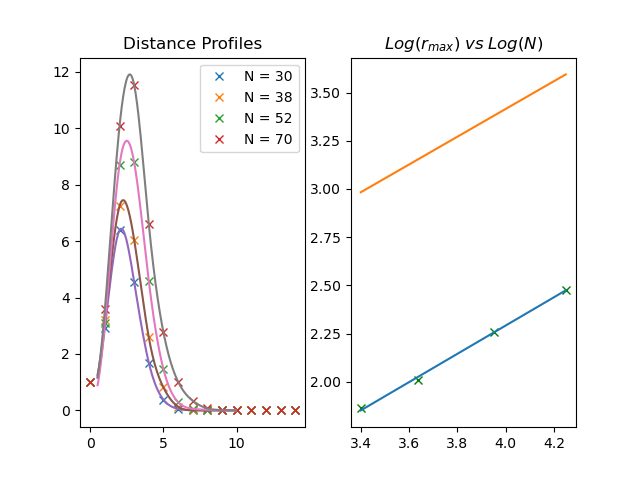
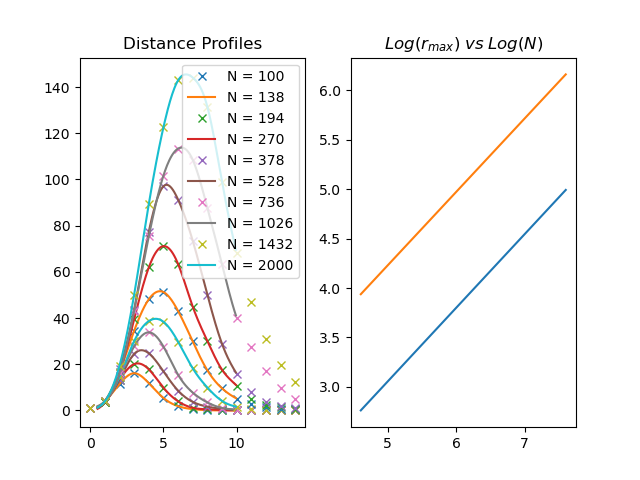
fixed some bugs fro spinor parall transport. sign flags not yet antisymmetrised

diff --git a/manifold_sampler/main_hpc.py b/manifold_sampler/main_hpc.py
@@ -3,7 +3,7 @@ from Analysis_utils import *
 from scipy.interpolate import CubicSpline
 
 # params for the lattice-matter system and sampling
-sizes = [(int(i) // 2) * 2 for i in np.geomspace(100, 500, 8)]
+sizes = [(int(i) // 2) * 2 for i in np.geomspace(30, 100, 8)]
 beta = 0.63
 matter = 'ising'
 strategy = ['gravity', matter]
@@ -19,67 +19,69 @@ if array_id is not None:
 def profile_maker(size):
     return make_profile(size, beta, strategy, eq_sweeps, meas_sweeps, n_measurements)
 
-if array_id is not None and array_id <= 1:
-    prof = make_profiles(sizes, beta, strategy, eq_sweeps, meas_sweeps, n_measurements)
-else:
-    prof = make_profiles_mp(sizes, profile_maker)
 
-# create plots
-fig, ax = plt.subplots(1, 2)
+if __name__ == '__main__':
 
-# fit a cubic spline through the distance profiles
-fit_prof = []
-prof_0 = prof[..., 0]  # neglect errors
-rs = np.arange(0.5, 10, 0.05)  # range for spline fit
+    # the process of creating and updating different lattices is parallelised.
+    pool = mp.Pool(mp.cpu_count())
+    with timebudget("Time to make profiles:"):
+        prof = np.array(pool.map(profile_maker, sizes))
 
-for profile in prof_0:
-    dist_range = np.arange(len(profile))
-    cs = CubicSpline(dist_range, profile)
-    fit_prof.append(cs(rs))
+    # create plots
+    fig, ax = plt.subplots(1, 2)
 
-    # plot distance profiles
-    ax[0].plot(dist_range, profile, 'x')
-    ax[0].plot(rs, cs(rs))
+    # fit a cubic spline through the distance profiles
+    fit_prof = []
+    prof_0 = prof[..., 0]  # neglect errors
+    rs = np.arange(0.5, 10, 0.05)  # range for spline fit
 
-np.savez('data/profiles_spinor_1', full_prof=prof, fit_prof=np.array(fit_prof), prof_0=prof_0, sizes=sizes, beta=beta)
+    for profile in prof_0:
+        dist_range = np.arange(len(profile))
+        cs = CubicSpline(dist_range, profile)
+        fit_prof.append(cs(rs))
 
-# make fit of finite size scaling in log-log space
-y = np.log(np.max(fit_prof, axis=1))
-x = np.log(sizes)
-fit = curve_fit(lin_fit, x, y, p0=[0.75, 0])
-(d, a), err = fit
-d_H = 1 / (1 - d)
-d_err = np.sqrt(err[0, 0])
-d_H_err = d_H ** 2 * d_err
-a_err = np.sqrt(err[1, 1])
+        # plot distance profiles
+        ax[0].plot(dist_range, profile, 'x')
+        ax[0].plot(rs, cs(rs))
 
-# make fit without spline
-d_H_ws, d_H_err_ws, a_ws, a_err_ws = finite_size_scaling(prof, sizes)
+    np.savez('data/profiles_spinor_1', full_prof=prof, fit_prof=np.array(fit_prof), prof_0=prof_0, sizes=sizes,
+             beta=beta)
 
+    # make fit of finite size scaling in log-log space
+    y = np.log(np.max(fit_prof, axis=1))
+    x = np.log(sizes)
+    fit = curve_fit(lin_fit, x, y, p0=[0.75, 0])
+    (d, a), err = fit
+    d_H = 1 / (1 - d)
+    d_err = np.sqrt(err[0, 0])
+    d_H_err = d_H ** 2 * d_err
+    a_err = np.sqrt(err[1, 1])
 
-##### plot settings #####
-ax[1].plot(x, lin_fit(x, d, a), 'g')
-ax[1].plot(x, lin_fit(x, 1 - 1 / d_H_ws, a_ws))
-ax[1].plot(x, y, 'gx')
+    # make fit without spline
+    d_H_ws, d_H_err_ws, a_ws, a_err_ws = finite_size_scaling(prof, sizes)
 
-ax[0].set_title('Distance Profiles'), ax[1].set_title('$Log(r_{max})\; vs\; Log(N)$')
-ax[0].legend(["N = " + str(N) for N in sizes]), ax[1].legend(["Spline", "No spline"])
-fig.suptitle(f'{matter = }, {beta = }')
+    ##### plot settings #####
+    ax[1].plot(x, lin_fit(x, d, a), 'g')
+    ax[1].plot(x, lin_fit(x, 1 - 1 / d_H_ws, a_ws))
+    ax[1].plot(x, y, 'gx')
 
-ID = "" if array_id is None else str(array_id)
-fig.set_size_inches(8, 5)
-plt.savefig("data/pics/dist_" + matter + "_" + ID + ".png")
-plt.show()
+    ax[0].set_title('Distance Profiles'), ax[1].set_title('$Log(r_{max})\; vs\; Log(N)$')
+    ax[0].legend(["N = " + str(N) for N in sizes]), ax[1].legend(["Spline", "No spline"])
+    fig.suptitle(f'{matter = }, {beta = }')
 
+    ID = "" if array_id is None else str(array_id)
+    fig.set_size_inches(8, 5)
+    plt.savefig("data/pics/dist_" + matter + "_" + ID + ".png")
+    plt.show()
 
-##### print results and info #####
-print('Number of cores: ' + str(mp.cpu_count()))
-print(f'{array_id = }')
+    ##### print results and info #####
+    print('Number of cores: ' + str(mp.cpu_count()))
+    print(f'{array_id = }')
 
-print("\nwith spline fit:")
-print(f'{d_H = }' + '+/-' + f'{d_H_err = }')
-print(f'{a = }' + '+/-' + f'{a_err = }')
+    print("\nwith spline fit:")
+    print(f'{d_H = }' + '+/-' + f'{d_H_err = }')
+    print(f'{a = }' + '+/-' + f'{a_err = }')
 
-print("\nwithout spline fit:")
-print(f'{d_H_ws = }' + '+/-' + f'{d_H_err_ws = }')
-print(f'{a_ws = }' + '+/-' + f'{a_err_ws = }')
+    print("\nwithout spline fit:")
+    print(f'{d_H_ws = }' + '+/-' + f'{d_H_err_ws = }')
+    print(f'{a_ws = }' + '+/-' + f'{a_err_ws = }')

diff --git a/manifold_sampler/Triangulation.py b/manifold_sampler/Triangulation.py
@@ -6,14 +6,14 @@ rng = np.random.default_rng()
 
 # counter-clockwise circling of vertices to compute plaquettes and angle deficiency
 def circle_vertex(adj, sign, signc, i):
-    j = prev_(adj[i])
     alpha = theta[i % 3] - theta[adj[i] % 3] + np.pi
-    U = signc[i % 3] * sign[i] * paral_trans(alpha / 2)
+    U = signc[i // 3] * sign[i] * paral_trans(alpha / 2)
     def_triangles = 6 - 1
 
+    j = prev_(adj[i])
     while j != i:
         alpha = theta[j % 3] - theta[adj[j] % 3] + np.pi
-        U_1 = signc[j % 3] * sign[j] * paral_trans(alpha / 2)
+        U_1 = signc[j // 3] * sign[j] * paral_trans(alpha / 2)
         U = np.matmul(U, U_1)
         def_triangles -= 1
         j = prev_(adj[j])
@@ -131,6 +131,9 @@ class Manifold:
                     trace_th = np.cos(def_triangles * np.pi / 6)
                     sign_flip.append(np.sign(trace / trace_th))
 
+                sign_ = np.copy(sign_new)
+                signc_ = np.copy(signc_new)
+                traces = {}
                 ###### THIS IS THE IMPORTANT PART ######
                 # ss[x] is 1 if the plaquette corresp to edge x has correct sign, while it is -1 otherwise
                 ss = {}
@@ -140,22 +143,23 @@ class Manifold:
                     trace_th = np.cos(def_triangles * np.pi / 6)
 
                     if np.isclose(trace, 0):  ### problems when trace = 0
-                        s = np.sign(U[0, 1] / np.sin(def_triangles * np.pi / 6))
+                        s = np.sign(U[0, 1] / np.sin(def_triangles * np.pi / 6)) ### maybe should include minus sign
                     else:
                         s = np.sign(trace / trace_th)
                     ss[edge] = s
+                    traces[edge] = trace
 
                 # we enforce consistency relations ### check!
                 if j != n:
                     sign_new[k] *= ss[k]
                     sign_new[j] *= ss[i] * ss[j]
                     sign_new[i] *= ss[j] * ss[k] * ss[l]
-                    signc_new[i % 3] *= ss[i] * ss[j] * ss[k] * ss[l]
+                    signc_new[c1] *= ss[i] * ss[j] * ss[k] * ss[l]
 
-                    ### modify for case j == n
                     sign_new[m] = sign_new[k]
                     sign_new[l] = sign_new[j]
                     sign_new[n] = sign_new[i]
+
                 # the case j == n requires a distinct approach
                 else:
                     print("j == n")
@@ -187,18 +191,25 @@ class Manifold:
                         print(j==n)
                         t = 1
                 ss1 = {}
+                report = False
+                any_trace_zero = False
                 for edge in (i, j, k, l):
                     U, def_triangles = circle_vertex(adj_new, sign_new, signc_new, edge)
                     trace = np.trace(U) / 2
                     trace_th = np.cos(def_triangles * np.pi / 6)
 
                     if np.isclose(trace, 0):  ### problems when trace = 0
-                        s = 0.000001
+                        s = 0
+                        any_trace_zero = True
                     else:
                         s = np.sign(trace / trace_th)
                     ss1[edge] = s
                     if s != 1:
-                        print("s != 1")
+                        report = True
+                if report:
+                    print(ss1)
+                    print(f'{any_trace_zero = }')
+
 
                 # action variation
                 signs = (self.sign, self.signc)

diff --git a/manifold_sampler/tests/spinor_test.py b/manifold_sampler/tests/spinor_test.py
@@ -1,7 +1,7 @@
 import sys
 import unittest
 
-import scipy
+import scipy.linalg
 
 sys.path.append("../")
 from manifold_sampler.Triangulation import *
@@ -41,39 +41,40 @@ class TestPsi(unittest.TestCase):
             self.assertAlmostEqual(np.imag(product), 0)
 
     def test_plaquette(self):
-        N = 8
+        N = 20
         m = Manifold(N)
         strategy = ['gravity', 'spinor_free']
         # check if the fan triangulation has a consistent sign configuration
         for i in range(len(m.adj)):
             U, def_triangles = circle_vertex(m.adj, m.sign, m.signc, i)
             trace_plaquette = np.trace(U) / 2
-            self.assertAlmostEqual(trace_plaquette, np.cos(def_triangles*np.pi/6))
+            self.assertAlmostEqual(trace_plaquette, np.cos(def_triangles * np.pi / 6))
 
         # check if edge flips preserve the consistency of the sign configuration
-        for it in range(10*N):
+        for it in range(10 * N):
             m.random_update(beta=0.6, strategy=strategy)
             for i in range(len(m.adj)):
                 U, def_triangles = circle_vertex(m.adj, m.sign, m.signc, i)
-                trace_plaquette = np.trace(U)/2
-                #print(np.cos(def_triangles*np.pi/6))
-                self.assertAlmostEqual(trace_plaquette, np.cos(def_triangles*np.pi/6))
+                trace_plaquette = np.trace(U) / 2
+                self.assertAlmostEqual(trace_plaquette, np.cos(def_triangles * np.pi / 6))
             print(it)
+
     def test_gauge_sign(self):
         N = 16
         m = Manifold(N)
         strategy = ['gravity', 'spinor_free']
 
-        np.testing.assert_allclose(m.sign**2, np.ones(3*N))
+        np.testing.assert_allclose(m.sign ** 2, np.ones(3 * N))
         for edge in m.adj:
             self.assertEqual(m.sign[edge], m.sign[m.adj[edge]])
 
-        for _ in range(30*N):
+        for _ in range(30 * N):
             m.random_update(0.5, strategy)
             for edge in m.adj:
                 self.assertEqual(m.sign[edge], m.sign[m.adj[edge]])
-            np.testing.assert_allclose(m.sign**2, np.ones(3*N))
-            np.testing.assert_allclose(m.signc**2, np.ones(N))
+            np.testing.assert_allclose(m.sign ** 2, np.ones(3 * N))
+            np.testing.assert_allclose(m.signc ** 2, np.ones(N))
+
 
 if __name__ == '__main__':
     unittest.main()

diff --git a/manifold_sampler/main.py b/manifold_sampler/main.py
@@ -1,11 +1,13 @@
 from Analysis_utils import *
 
-N = 20
-n_sweeps = 5
+N = 12 ### needs to be multiple of 4
+n_sweeps = 1
 
 beta = 0.63
 K = 0
 l = Manifold(N)
 strategy = ['gravity', 'spinor_free']
+print("first")
+l.flip_edge(1, beta, strategy)
 
-l.sweep(n_sweeps, beta, strategy)
+print("finished")

diff --git a/manifold_sampler/track_quantities.py b/manifold_sampler/track_quantities.py
@@ -2,13 +2,13 @@ import numpy as np
 
 from Analysis_utils import *
 
-N = 32
+N = 16
 beta = 0.63
 strategy = ['gravity', 'scalar']
 
 l = Manifold(N)
 
-range = range(100)
+range = range(30)
 Ss = []
 Phis = []
 Ms = []
